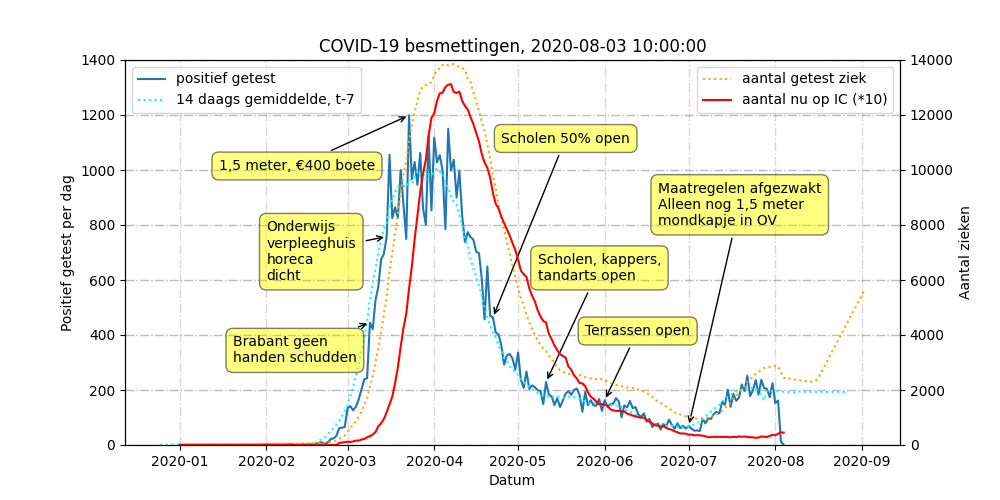
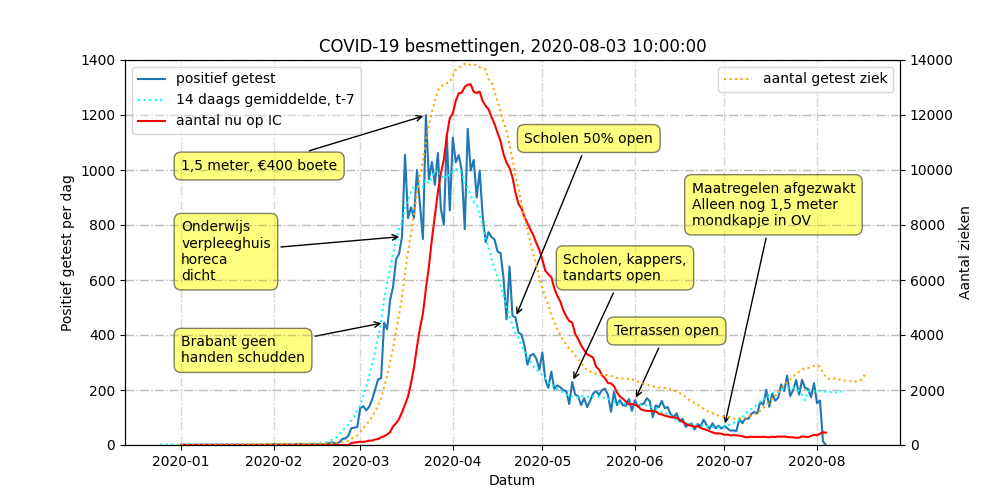
Ran getDailyExcelData

diff --git a/scripts/createGraph.py b/scripts/createGraph.py
@@ -25,7 +25,7 @@ def getDateRange(metenisweten):
         maxdatum = max(maxdatum, parser.parse(datum))
 
     date_range = [mindatum + datetime.timedelta(days=x)
-                  for x in range(0, (maxdatum-mindatum).days+30)]
+                  for x in range(0, (maxdatum-mindatum).days+14)]
     return date_range
 
 
@@ -73,7 +73,7 @@ ziek = {
 ic = {
     'x' : [],
     'y' : [],
-    'scale' : 10
+    'scale' : 1
 }
 
 besmettingsgraad = {
@@ -156,11 +156,11 @@ ax2.grid(which='both', axis='both', linestyle='-.',
 ax1.plot(positief['x'], positief['y'], label='positief getest')
 
 anotate(ax1, metenisweten, "2020-03-09",
-        'Brabant geen\nhanden schudden', "2020-01-20", 300)
+        'Brabant geen\nhanden schudden', "2020-01-01", 300)
 anotate(ax1, metenisweten, "2020-03-15",
-        'Onderwijs\nverpleeghuis\nhoreca\ndicht', "2020-02-01", 600)
+        'Onderwijs\nverpleeghuis\nhoreca\ndicht', "2020-01-01", 600)
 anotate(ax1, metenisweten, "2020-03-23",
-        '1,5 meter, €400 boete', "2020-01-15", 1000)
+        '1,5 meter, €400 boete', "2020-01-01", 1000)
 anotate(ax1, metenisweten, "2020-04-22", 'Scholen 50% open', "2020-04-25", 1100)
 anotate(ax1, metenisweten, "2020-05-11",
         'Scholen, kappers,\ntandarts open', "2020-05-08", 600)
@@ -174,9 +174,10 @@ ax1.plot(positief_gemiddeld['x'], positief_gemiddeld['y'], color='cyan', linesty
          str(int(positief_gemiddeld['avgsize']/2))
          )
 
+ax1.plot(ic['x'], ic['y'], color='red', label='aantal nu op IC')
+
 ax2.plot(ziek['x'], ziek['y'], color='orange',
          linestyle=':', label='aantal getest ziek')
-ax2.plot(ic['x'], ic['y'], color='red', label='aantal nu op IC (*'+str(ic['scale'])+')')
 
 ax1.set_xlabel("Datum")
 ax1.set_ylabel("Positief getest per dag")
